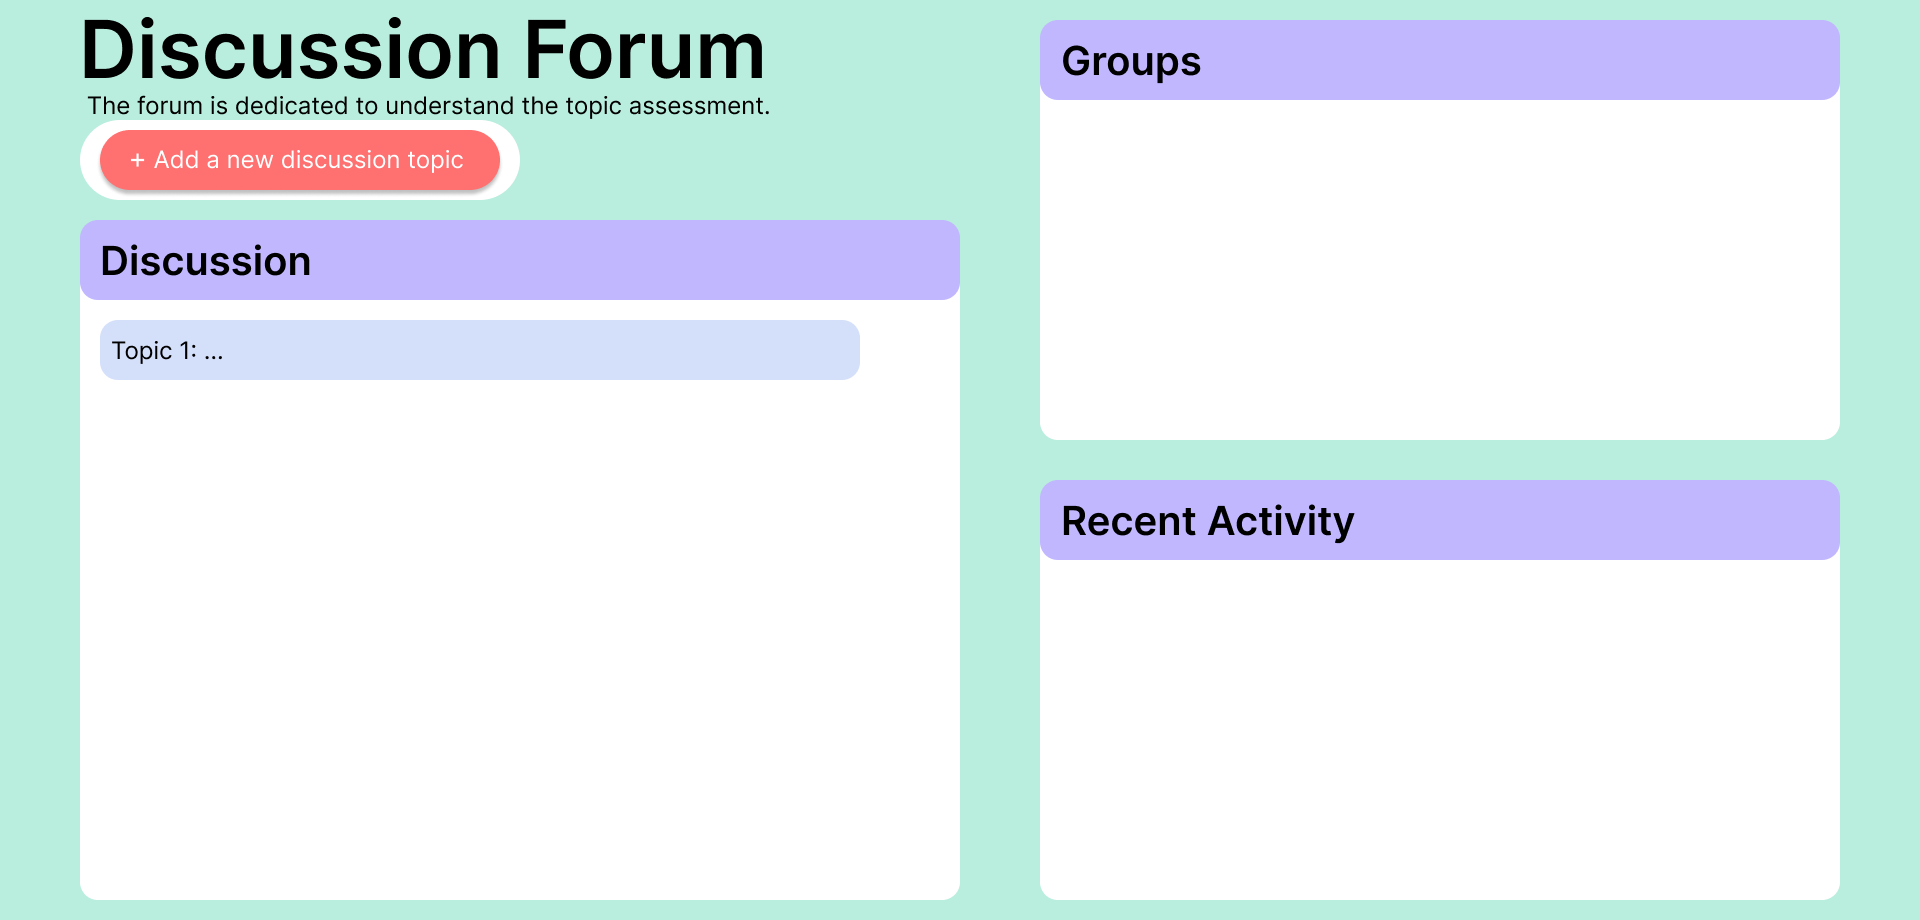
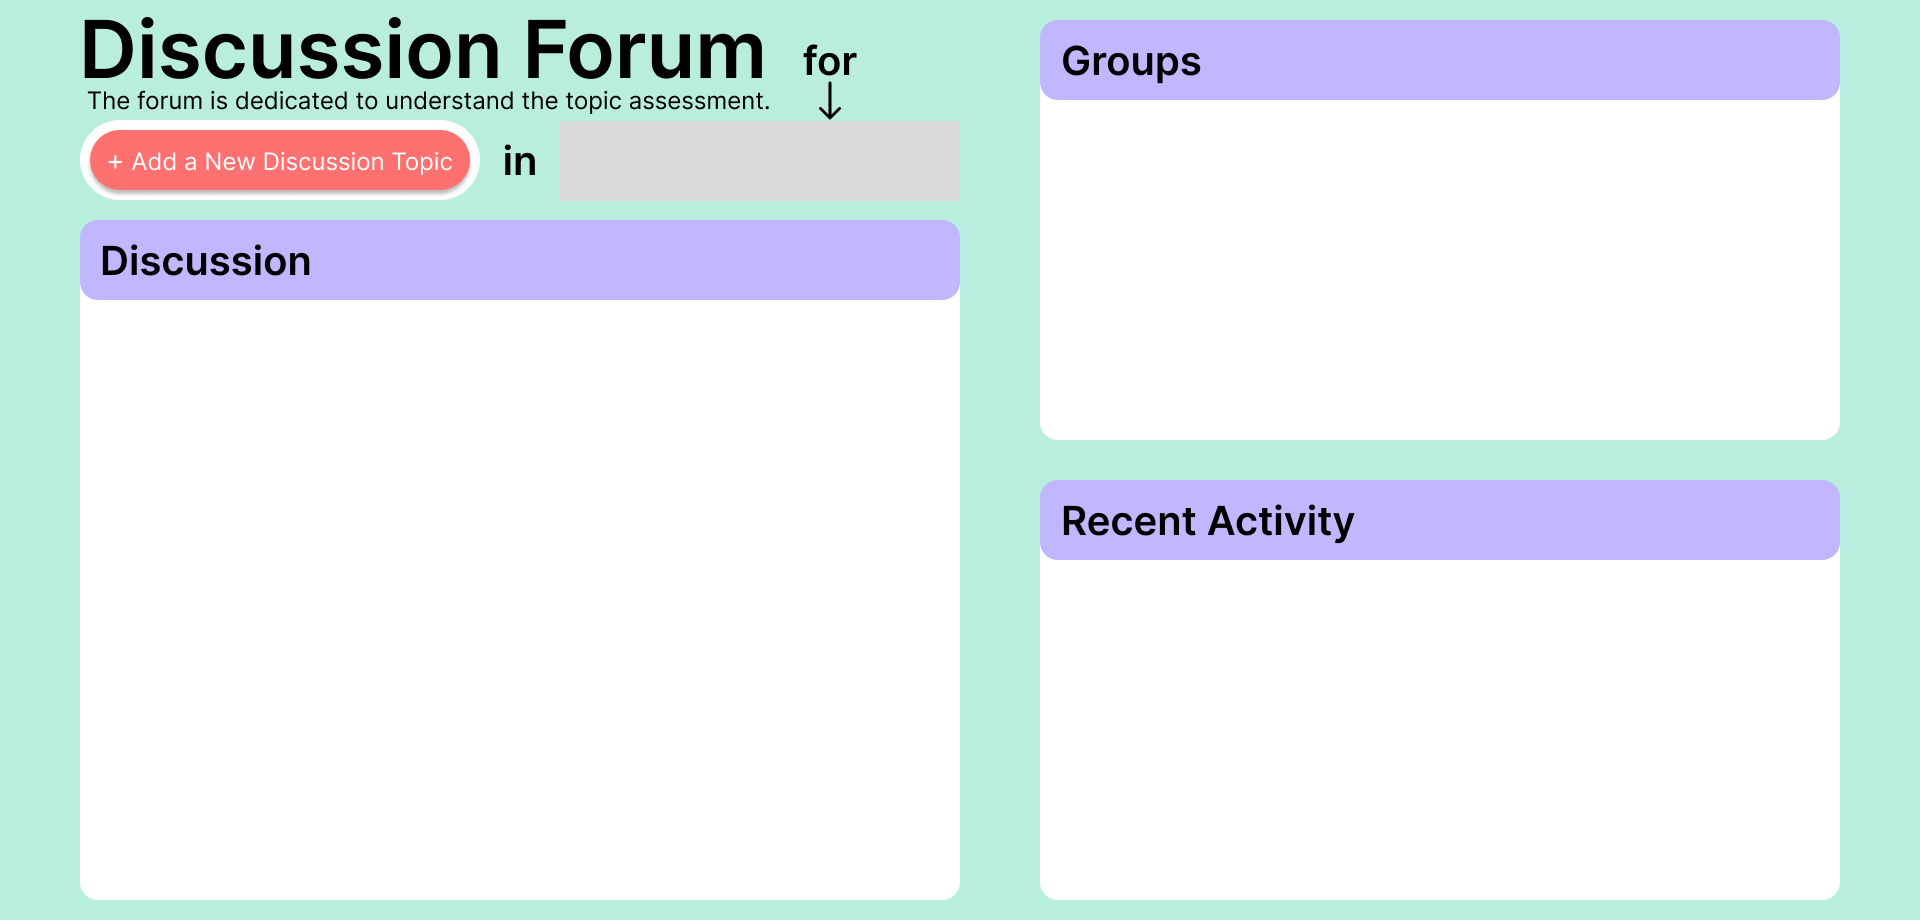
Linked discussion posts to modules

Changed region(s): [[0.0312, 0.0913, 0.5, 0.2435], [0.0312, 0.3348, 0.4688, 0.4261], [0.4062, 0.0609, 0.4375, 0.0913]]

diff --git a/main.py b/main.py
@@ -2054,11 +2054,21 @@ class CourseView(Canvas):
             [self.exitMainFrame()]
         )
         coursecode = coursecode.lower()
+        print(coursecode)
         for widgetname, widget in self.mainframe.children.items():
             if isinstance(widget, Label) and not widgetname.startswith("!la"):
                 if not widgetname.startswith(f"{coursecode}") and not widgetname.startswith("loadedcoursebg"):
+                    # print("Getting removed", widgetname)
                     widget.grid_remove()
                 if widgetname.startswith(f"{coursecode}"):
+                    # print("Getting loaded", widgetname)
+                    widget.grid()
+            if isinstance(widget, Button):
+                if not widgetname.startswith(f"{coursecode}") and not widgetname.startswith("exitbutton"):
+                    # print("Getting removed", widgetname)
+                    widget.grid_remove()
+                if widgetname.startswith(f"{coursecode}"):
+                    # print("Getting loaded", widgetname)
                     widget.grid()
 
     def postLogin(self, data: dict):
@@ -2073,10 +2083,11 @@ class CourseView(Canvas):
             lecturerphone = lecturerinfo[i][2]
             self.detailsCreator(modulecode, moduletitle, moduledesc,
                                 lecturername, lectureremail, lecturerphone)
-
         self.loadcoursebuttons()
 
     def detailsCreator(self, modulecode, moduletitle, moduledesc, lecturername, lectureremail, lecturerphone):
+        tupleofinfo = (modulecode, moduletitle, moduledesc,
+                       lecturername, lectureremail, lecturerphone)
         self.controller.textElement(
             imagepath=r"Assets\My Courses\coursetitlebg.png", xpos=20, ypos=20,
             classname=f"{modulecode}_title", root=self.mainframe, text=moduletitle, size=60, xoffset=-4,
@@ -2097,6 +2108,32 @@ class CourseView(Canvas):
             imagepath=r"Assets\My Courses\whitebgtextfield.png", xpos=220, ypos=360,
             classname=f"{modulecode}_lecphone", root=self.mainframe, text=lecturerphone, size=28, xoffset=-1,
         )
+        self.controller.buttonCreator(
+            imagepath=r"Assets\My Courses\go_to_discussions.png", xpos=700, ypos=780,
+            classname=f"{modulecode}_discussions", root=self.mainframe,
+            buttonFunction=lambda: self.loadDiscussionsView(modulecode)
+        )
+
+    def loadDiscussionsView(self, modulecode):
+        toast = ToastNotification(
+            title=f"Loading Discussions for {modulecode}",
+            message="Please wait while we load the discussions for this module",
+            bootstyle="info"
+        )
+        toast.show_toast()
+        discview = self.controller.widgetsDict["discussionsview"]
+        discview.callLoadLatestPosts(modulecode)
+        toast.hide_toast()
+        toast2 = ToastNotification(
+            title=f"Discussions for {modulecode} loaded",
+            message="The discussions for this module have been loaded",
+            bootstyle="success",
+            duration=500,
+        )
+        discview.modulecodevar.set(modulecode)
+        discview.menubutton.configure(text=modulecode)
+        toast2.show_toast()
+        self.controller.show_canvas(DiscussionsView)
 
     def exitMainFrame(self):
         self.mainframe.grid_remove()
@@ -2235,6 +2272,7 @@ class DiscussionsView(Canvas):
         self.postcontenttext.grid(
             column=textxpos, row=textypos, columnspan=textcolumnspan, rowspan=textrowspan, sticky=NSEW
         )
+
         self.creationframe.grid_remove()
         self.postviewframe.grid_remove()
 
@@ -2250,14 +2288,14 @@ class DiscussionsView(Canvas):
         self.staticBtns = [
             (r"Assets\DiscussionsView\creatediscussion.png", 80, 120, "creatediscussionbtn", self,
              lambda: self.loadPostCreation()),
+            (r"Assets\DiscussionsView\refreshbutton.png", 860, 220, "refreshbtn", self,
+             lambda: self.callLoadLatestPosts(self.modulecodevar.get())),
             (r"Assets\DiscussionsView\cancelbuttondisc.png", 40, 760, "cancelbtncreation", self.creationframe,
              lambda: self.unloadPostCreation()),
             (r"Assets\DiscussionsView\createpostbuttondisc.png", 480, 760, "postbtncreation", self.creationframe,
              lambda: self.threadStart()),
             (r"Assets\My Courses\exitbutton.png", 1840, 0, "cancelbtnview", self.postviewframe,
              lambda: self.unloadPostView()),
-            (r"Assets\DiscussionsView\refreshbutton.png", 860, 220, "refreshbtn", self,
-             lambda: self.callLoadLatestPosts()),
         ]
         self.controller.settingsUnpacker(self.staticImgLabels, "label")
         self.controller.settingsUnpacker(self.staticBtns, "button")
@@ -2277,15 +2315,16 @@ class DiscussionsView(Canvas):
         self.creationframe.grid()
         self.creationframe.tkraise()
         self.controller.widgetsDict["posttitleent"].delete(0, END)
-        self.contenttext.delete("1.0", END)
+        self.postcontenttext.delete("1.0", END)
         self.controller.widgetsDict["posttitleent"].focus_set()
         self.controller.widgetsDict["posttitleent"].bind(
-            "<Return>", lambda event: self.contenttext.focus_set()
+            "<Return>", lambda event: self.postcontenttext.focus_set()
         )
 
     def postLogin(self, data: dict = None, prisma: Prisma = None):
         self.prisma = prisma
         self.userId = data["id"]
+
         # posts = self.prisma.modulepost.find_many(
         #     order={
         #         "createdAt": "desc"
@@ -2325,6 +2364,35 @@ class DiscussionsView(Canvas):
         #         print("no replies")
         postContentList = self.loadLatestPosts(prisma=self.prisma)
         # print("the postidandtitlelist is: ", postContentList)
+        self.controller.frameCreator(
+            xpos=560, ypos=120, framewidth=400, frameheight=80, root=self,
+            classname="modulecodeframe", bg=WHITE
+        )
+        self.frameref = self.controller.widgetsDict["modulecodeframe"]
+        self.menubutton = ttk.Menubutton(
+            self.frameref, text="INT4004CEM", name="modulecodemenubtn", style="info.TMenubutton"
+        )
+        self.menubutton.grid(column=0, row=0,
+                             columnspan=int(400/20), rowspan=int(80/20), sticky=NSEW)
+        self.menubuttonmenu = Menu(
+            self.menubutton, tearoff=0, font=("Helvetica", 12))
+        self.modulecodevar = StringVar()
+        modules = prisma.module.find_many()
+        listofvalues = []
+        for module in modules:
+            if module.moduleCode == "INT4007CEM/INT4009CEM":
+                continue
+            listofvalues.append(module.moduleCode)
+        for value in listofvalues:
+            self.menubuttonmenu.add_radiobutton(
+                label=value, variable=self.modulecodevar, value=value,
+                command=lambda: [
+                    self.menubutton.config(text=self.modulecodevar.get()),
+                    self.callLoadLatestPosts(self.modulecodevar.get()),
+                    print(self.modulecodevar.get())]
+            )
+        self.modulecodevar.set("INT4004CEM")
+        self.menubutton["menu"] = self.menubuttonmenu
         heightofframe = len(postContentList) * 100
         # minimum height of frame is 500 for 5 posts
         if heightofframe < 500:
@@ -2358,17 +2426,23 @@ class DiscussionsView(Canvas):
         prisma.connect()
         title = self.controller.widgetsDict["posttitleent"].get()
         content = self.postcontenttext.get("1.0", END)
+        findmodule = prisma.module.find_first(
+            where={
+                "moduleCode": self.modulecodevar.get()
+            }
+        )
         module = prisma.modulepost.create(
             data={
                 "authorId": self.userId,
-                "moduleId": "clhrvr700000cvt9gwh6d7fk6",
+                "moduleId": findmodule.id,
                 "title": title,
                 "content": content,
             }
         )
         self.gif.grid_forget()
         print(f"Module Post:\n{module.json(indent=2)}")
-        postContentList = self.loadLatestPosts(prisma=prisma)
+        postContentList = self.loadLatestPosts(
+            prisma=prisma, moduleCode=self.modulecodevar.get())
         heightofframe = len(postContentList) * 100
         # minimum height of frame is 500 for 5 posts
         if heightofframe < 500:
@@ -2456,6 +2530,19 @@ class DiscussionsView(Canvas):
             imagepath=r"Assets\DiscussionsView\titleofthepost.png", xpos=60, ypos=40,
             classname="titleofthepost", root=self.postviewframe, isPlaced=True,
             text=f"{discussiontitle}", fg=BLACK, size=34, xoffset=-2
+        )
+        # MODULE CODE
+        self.controller.textElement(
+            imagepath=r"Assets\DiscussionsView\modulecode.png", xpos=100, ypos=120,
+            classname="modulecode", root=self.postviewframe, isPlaced=True,
+            text=f"SOC / BCSCU / {self.modulecodevar.get()}", fg=BLACK, size=36, xoffset=-1
+        )
+        # REFRESH BUTTON
+        self.controller.buttonCreator(
+            imagepath=r"Assets\DiscussionsView\refreshbutton.png", xpos=1160, ypos=20,
+            classname="repliesrefreshbtn", root=self.postviewframe, isPlaced=True,
+            buttonFunction=lambda: self.callLoadLatestReplies(
+                postId, moduleCode=self.modulecodevar.get())
         )
         # PURPLE BG
         # Normal size is 1100 x 660
@@ -2605,21 +2692,21 @@ class DiscussionsView(Canvas):
         self.controller.buttonCreator(
             imagepath=r"Assets\DiscussionsView\addreply.png", xpos=1620, ypos=780,
             classname="addreply", root=self.postviewframe, isPlaced=True,
-            buttonFunction=lambda: self.replyThreaded(postId)
+            buttonFunction=lambda: self.replyThreaded(
+                postId, self.modulecodevar.get())
         )
 
     def clearReplyText(self):
         self.replytextwidget.delete('1.0', END)
 
-    def replyThreaded(self, postId):
-        t = threading.Thread(target=self.addReply, args=(postId,))
+    def replyThreaded(self, postId, moduleCode: str = "INT4004CEM"):
+        t = threading.Thread(target=self.addReply, args=(postId, moduleCode))
         t.daemon = True
         t.start()
 
-    def addReply(self, postId):
+    def addReply(self, postId, moduleCode: str = "INT4004CEM"):
         replytext = self.replytextwidget.get("1.0", END)
-        prisma = Prisma()
-        prisma.connect()
+        prisma = self.prisma
         reply = prisma.reply.create(
             data={
                 "content": replytext,
@@ -2627,48 +2714,38 @@ class DiscussionsView(Canvas):
                 "authorId": self.userId,  # taken from postlogin
             }
         )
-        postContentList = self.loadLatestPosts(prisma)
-        heightofframe = len(postContentList) * 100
-        # minimum height of frame is 500 for 5 posts
-        if heightofframe < 500:
-            rowspanofFrame = int(500/20)
-        else:
-            rowspanofFrame = int(heightofframe/20)
-        self.postscrolledframe = ScrolledFrame(
-            self, width=840, height=heightofframe, name="postsframescrollable", autohide=True,
-        )
-        gridGenerator(self.postscrolledframe, int(
-            840/20), rowspanofFrame, WHITE)
-        self.postscrolledframe.grid_propagate(False)
-        self.postscrolledframe.place(x=100, y=320, width=840, height=500)
-        self.loadDiscussionTopics(postContentList)
-        for tuple in postContentList:
-            if tuple[0] == postId:
-                self.loadPostView(tuple)
-                break
+        self.refreshReplies(postId, prisma, moduleCode)
         # self.postviewframe.grid_remove()
         print(f"Reply:\n: {reply.json(indent=2)}")
 
-    def callLoadLatestPosts(self):
-        # prisma = Prisma()
-        # prisma.connect()
+    def callLoadLatestPosts(self, moduleCode: str = "INT4004CEM"):
         prisma = self.prisma
-        t = threading.Thread(target=self.loadLatestPosts, args=(prisma,))
+        t = threading.Thread(target=self.refreshPosts,
+                             args=(prisma, moduleCode))
         t.daemon = True
         t.start()
-    def loadLatestPosts(self, prisma: Prisma = None):
-        toast = ToastNotification(
-            title="Just a moment...",
-            message="Loading latest posts...",
-            bootstyle=INFO,
-        )
-        toast.show_toast()
+
+    def callLoadLatestReplies(self, postId, moduleCode: str = "INT4004CEM"):
+        prisma = self.prisma
+        t = threading.Thread(target=self.refreshReplies,
+                             args=(postId, prisma, moduleCode))
+        t.daemon = True
+        t.start()
+
+    def loadLatestPosts(self, prisma: Prisma = None, moduleCode: str = "INT4004CEM"):
         posts = prisma.modulepost.find_many(
             include={
                 "author": True,
                 "replies": {
                     "include": {
                         "author": True
+                    }
+                }
+            },
+            where={
+                "module": {
+                    "is": {
+                        "moduleCode": moduleCode
                     }
                 }
             }
@@ -2695,6 +2772,29 @@ class DiscussionsView(Canvas):
                 ]
             ) for post in posts
         ]
+        return postContentList
+
+    def refreshPosts(self, prisma: Prisma = None, moduleCode: str = "INT4004CEM"):
+        toast = ToastNotification(
+            title="Just a moment...",
+            message="Loading latest posts...",
+            bootstyle=INFO,
+        )
+        toast.show_toast()
+        postContentList = self.loadLatestPosts(prisma, moduleCode)
+        heightofframe = len(postContentList) * 100
+        if heightofframe < 500:
+            rowspanofFrame = int(500/20)
+        else:
+            rowspanofFrame = int(heightofframe/20)
+        self.postscrolledframe = ScrolledFrame(
+            self, width=840, height=heightofframe, name="postsframescrollable", autohide=True,
+        )
+        gridGenerator(self.postscrolledframe, int(
+            840/20), rowspanofFrame, WHITE)
+        self.postscrolledframe.grid_propagate(False)
+        self.postscrolledframe.place(x=100, y=320, width=840, height=500)
+        self.loadDiscussionTopics(postContentList)
         toast.hide_toast()
         newtoast = ToastNotification(
             title="Done!",
@@ -2705,9 +2805,28 @@ class DiscussionsView(Canvas):
         newtoast.show_toast()
         return postContentList
 
-    def loadDiscussionPost(self, postId):
-        self.loadPostView()
-        pass
+    def refreshReplies(self, postId, prisma, moduleCode: str = "INT4004CEM"):
+        toast = ToastNotification(
+            title="Just a moment...",
+            message=f"Fetching latest replies for Post {postId}",
+            bootstyle=INFO,
+        )
+        toast.show_toast()
+        postContentList = self.refreshPosts(prisma, moduleCode)
+        # probably can be refactored into a binary search
+        for tuple in postContentList:
+            if tuple[0] == postId:
+                self.loadPostView(tuple)
+                break
+        toast.hide_toast()
+        newtoast = ToastNotification(
+            title="Done!",
+            message="Latest replies loaded.",
+            bootstyle=SUCCESS,
+            duration=500,
+        )
+        newtoast.show_toast()
+
 
 class FavoritesView(Canvas):
     def __init__(self, parent, controller: Window):
